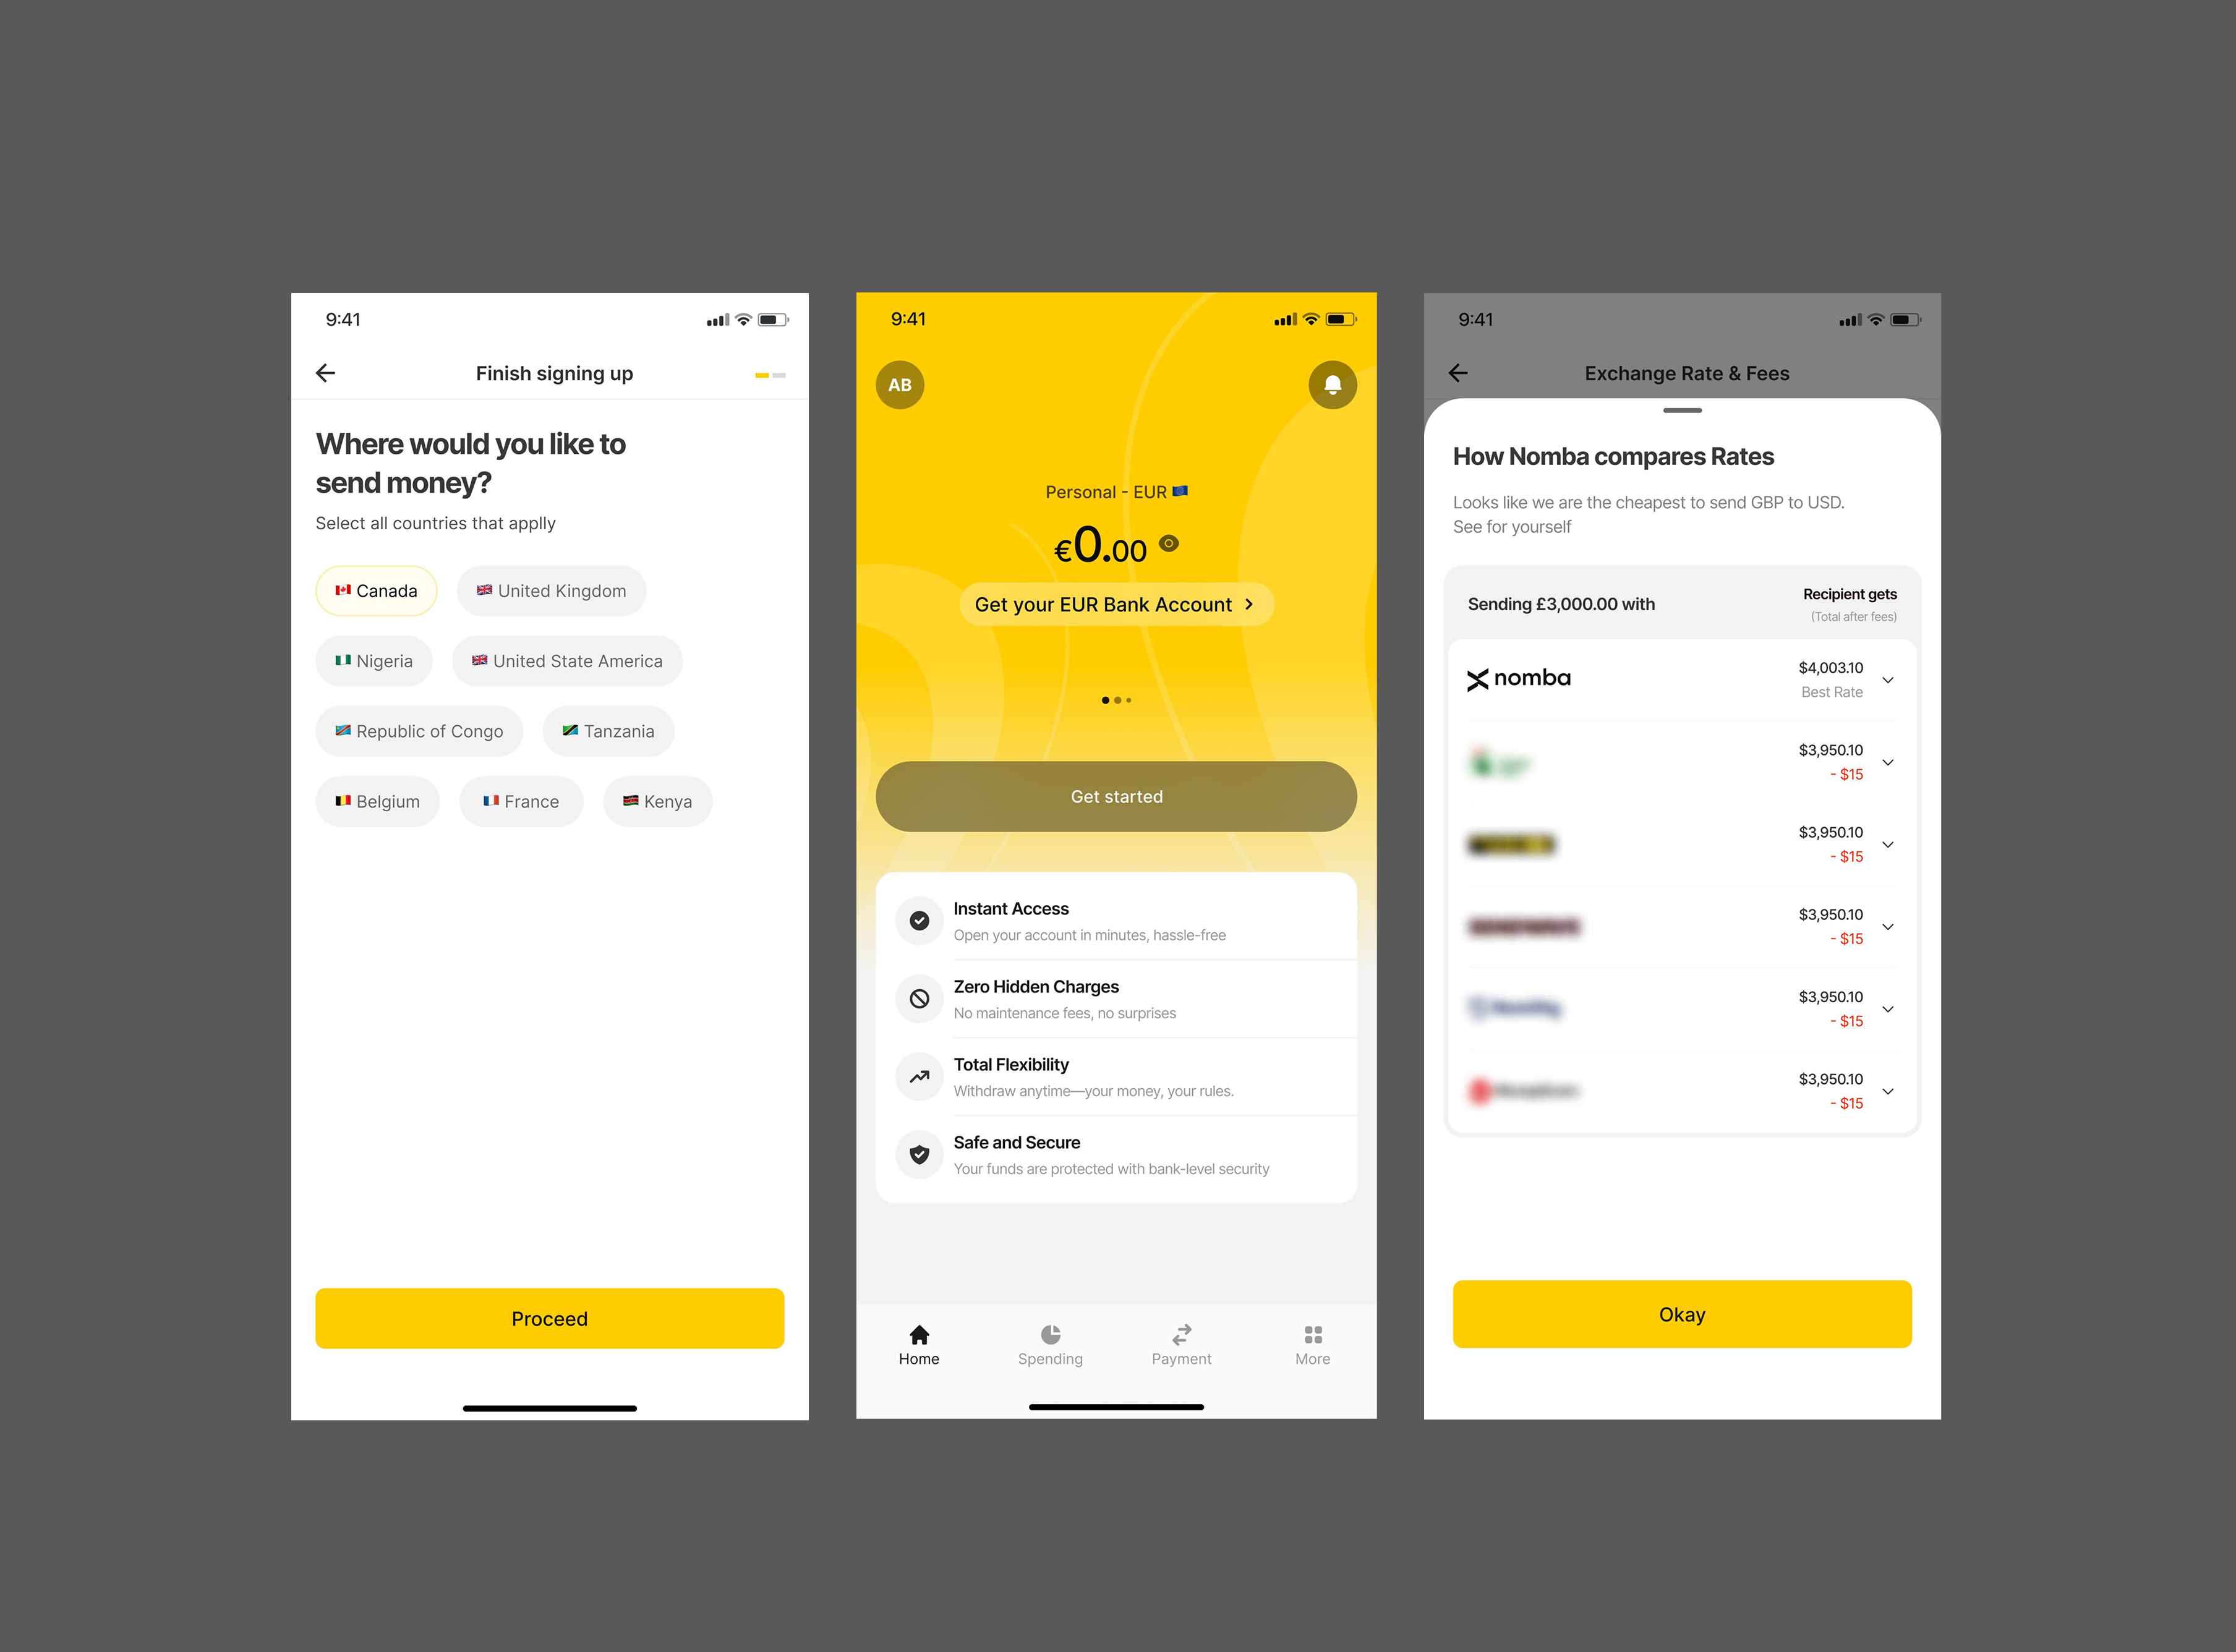
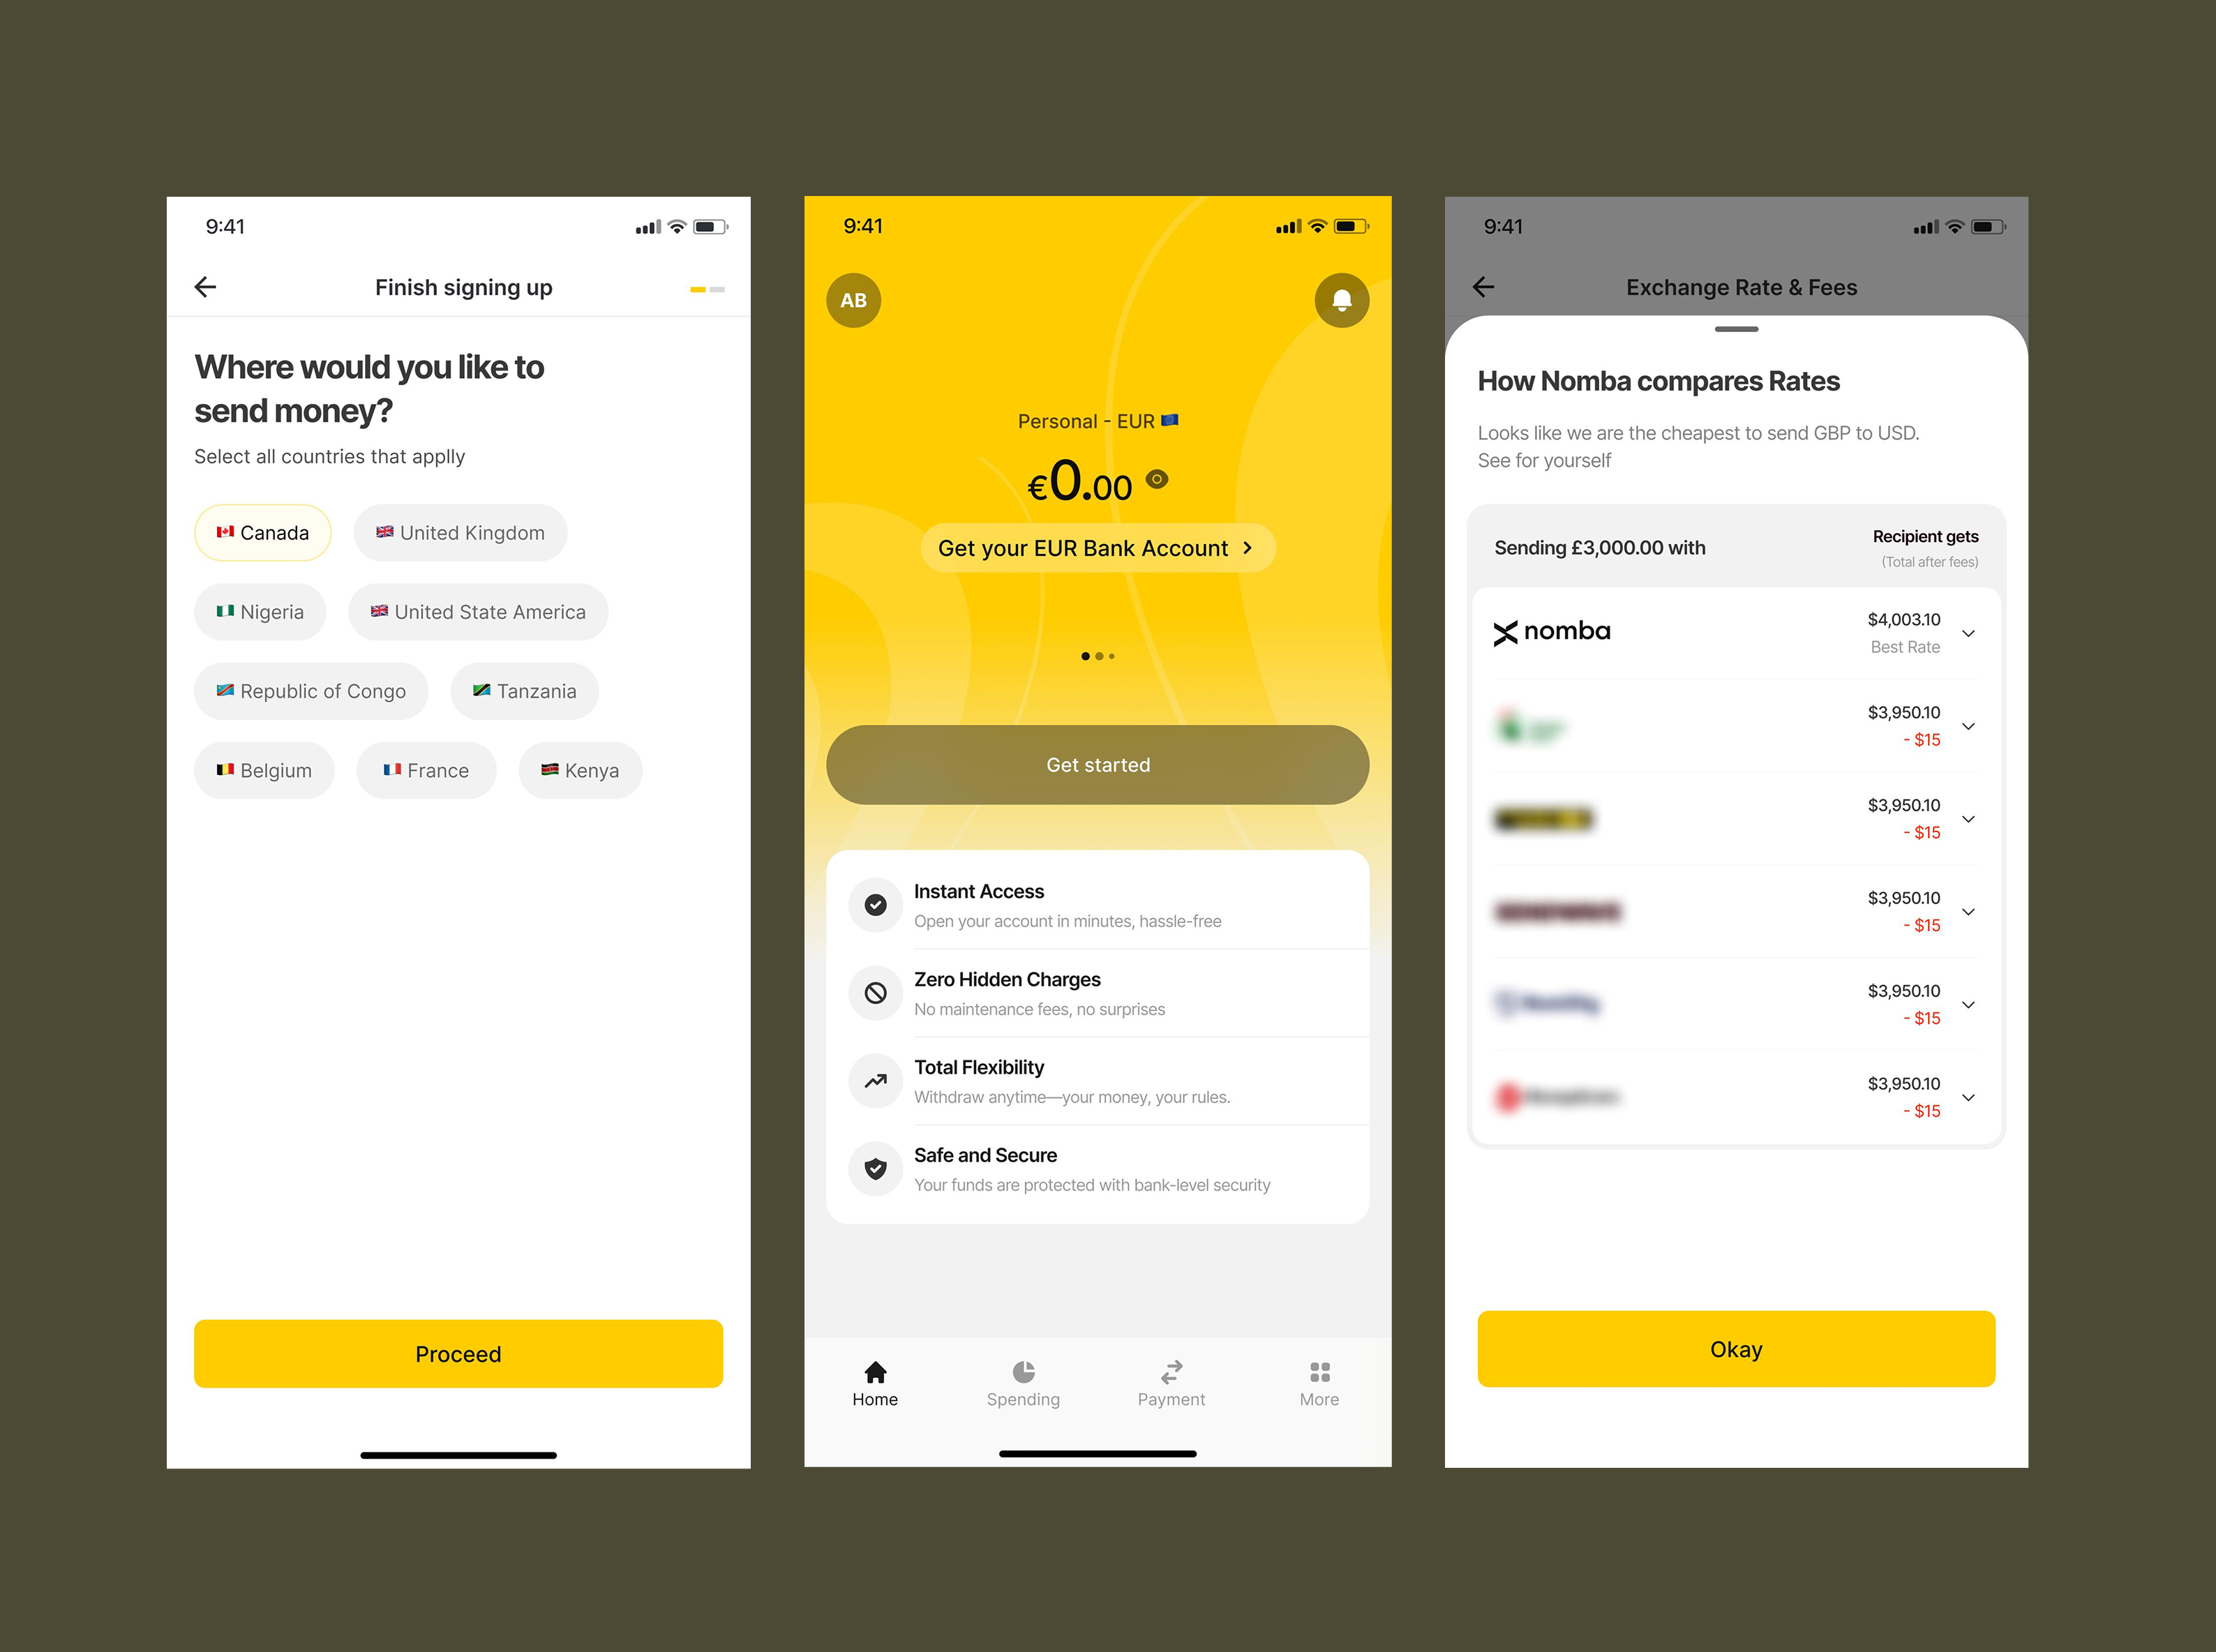
Fix TOC/results overlap, redesign case study rows, update assets
- Stop the sticky case-study TOC from overlapping the full-bleed dark
  Results section by keeping it flush with the content column instead
  of spanning under the sidebar.
- Redesign CaseStudies.tsx rows: drop the tags column, move tags under
  the description as subtle labels, and restyle the CTA as a text link.
- Swap in updated Global Expansion hero image and resume PDF.

diff --git a/src/pages/CaseStudies.tsx b/src/pages/CaseStudies.tsx
@@ -113,21 +113,23 @@ const CaseStudies = () => {
               {filtered.map((cs) => (
                 <div
                   key={cs.name}
-                  className="grid grid-cols-1 md:grid-cols-[1fr_2fr_1fr_1fr] gap-6 items-center py-6 md:py-8"
+                  className="grid grid-cols-1 md:grid-cols-[25fr_55fr_20fr] gap-6 items-center py-6 md:py-8"
                 >
                   <div className="font-bold text-lg">{cs.name}</div>
-                  <p className="text-sm text-muted-foreground leading-relaxed">
-                    {cs.description}
-                  </p>
-                  <div className="flex flex-wrap gap-2">
-                    {cs.tags.map((tag) => (
-                      <span
-                        key={tag}
-                        className="px-3 py-1 rounded-full text-xs font-medium bg-muted text-foreground"
-                      >
-                        {tag}
-                      </span>
-                    ))}
+                  <div>
+                    <p className="text-sm text-muted-foreground leading-relaxed">
+                      {cs.description}
+                    </p>
+                    <div className="flex flex-wrap gap-2 mt-3">
+                      {cs.tags.map((tag) => (
+                        <span
+                          key={tag}
+                          className="text-xs text-muted-foreground uppercase tracking-wide"
+                        >
+                          {tag}
+                        </span>
+                      ))}
+                    </div>
                   </div>
                   <div className="flex justify-start md:justify-end">
                     {cs.href.startsWith("http") ? (
@@ -135,14 +137,14 @@ const CaseStudies = () => {
                         href={cs.href}
                         target="_blank"
                         rel="noopener noreferrer"
-                        className="inline-flex items-center gap-2 text-sm font-medium px-5 py-2.5 rounded-[22px] transition-base hover:opacity-90 bg-primary text-primary-foreground"
+                        className="inline-flex items-center gap-2 text-sm font-medium text-accent hover:underline transition-base"
                       >
                         Visit Project <ArrowRight className="w-4 h-4" />
                       </a>
                     ) : (
                       <Link
                         to={cs.href}
-                        className="inline-flex items-center gap-2 text-sm font-medium px-5 py-2.5 rounded-[22px] transition-base hover:opacity-90 bg-primary text-primary-foreground"
+                        className="inline-flex items-center gap-2 text-sm font-medium text-accent hover:underline transition-base"
                       >
                         View Case Study <ArrowRight className="w-4 h-4" />
                       </Link>

diff --git a/src/pages/DrcPayments.tsx b/src/pages/DrcPayments.tsx
@@ -137,8 +137,8 @@ const DrcPayments = () => {
             </div>
 
             {/* Results */}
-            <div id="results" className="lg:col-start-1 lg:col-span-2 lg:row-start-2 scroll-mt-28">
-              <div className="-mx-6">
+            <div id="results" className="lg:col-start-2 lg:row-start-2 scroll-mt-28">
+              <div className="-mr-6">
                 <DarkStatsSection
                   introText="We rolled out the MVP quietly, onboarding a small batch of agents to test the system in real conditions. Within two months, it was clear: It worked."
                   stats={[

diff --git a/src/pages/Gamification.tsx b/src/pages/Gamification.tsx
@@ -145,8 +145,8 @@ const Gamification = () => {
             </div>
 
             {/* Results */}
-            <div id="results" className="lg:col-start-1 lg:col-span-2 lg:row-start-2 scroll-mt-28">
-              <div className="-mx-6">
+            <div id="results" className="lg:col-start-2 lg:row-start-2 scroll-mt-28">
+              <div className="-mr-6">
                 <DarkStatsSection
                   introText="Repeat usage went up. Not because we pushed users back with notifications or discounts. Because the product gave them a reason to return on their own."
                   stats={[

diff --git a/src/pages/GlobalExpansion.tsx b/src/pages/GlobalExpansion.tsx
@@ -155,8 +155,8 @@ const GlobalExpansion = () => {
             </div>
 
             {/* Results */}
-            <div id="results" className="lg:col-start-1 lg:col-span-2 lg:row-start-2 scroll-mt-28">
-              <div className="-mx-6">
+            <div id="results" className="lg:col-start-2 lg:row-start-2 scroll-mt-28">
+              <div className="-mr-6">
                 <DarkStatsSection
                   introText="A product built for six markets, used in nine. The infrastructure was complex. The experience was not."
                   stats={[

diff --git a/src/pages/GlobalTransfers.tsx b/src/pages/GlobalTransfers.tsx
@@ -144,8 +144,8 @@ const GlobalTransfers = () => {
             </div>
 
             {/* Results */}
-            <div id="results" className="lg:col-start-1 lg:col-span-2 lg:row-start-2 scroll-mt-28">
-              <div className="-mx-6">
+            <div id="results" className="lg:col-start-2 lg:row-start-2 scroll-mt-28">
+              <div className="-mr-6">
                 <DarkStatsSection
                   introText="We started with a handful of corridors and watched closely. As adoption picked up, we expanded coverage — and the numbers followed."
                   stats={[

diff --git a/src/pages/MultiCurrencyWallet.tsx b/src/pages/MultiCurrencyWallet.tsx
@@ -143,8 +143,8 @@ const MultiCurrencyWallet = () => {
             </div>
 
             {/* Results */}
-            <div id="results" className="lg:col-start-1 lg:col-span-2 lg:row-start-2 scroll-mt-28">
-              <div className="-mx-6">
+            <div id="results" className="lg:col-start-2 lg:row-start-2 scroll-mt-28">
+              <div className="-mr-6">
                 <DarkStatsSection
                   introText="Users finally had the flexibility to transact in the currencies they actually lived and earned in. What I loved most was hearing users say, 'I don't have to think twice anymore.'"
                   stats={[

diff --git a/src/components/FeaturedWork.tsx b/src/components/FeaturedWork.tsx
@@ -64,7 +64,7 @@ const FeaturedWork = () => {
               >
                 {/* Image */}
                 <div className="w-full md:w-1/2">
-                  <div className="rounded-2xl overflow-hidden aspect-[4/3]">
+                  <div className={`overflow-hidden aspect-[4/3] ${project.name === "Global Expansion" ? "" : "rounded-2xl"}`}>
                     <img
                       src={project.image}
                       alt={project.name}